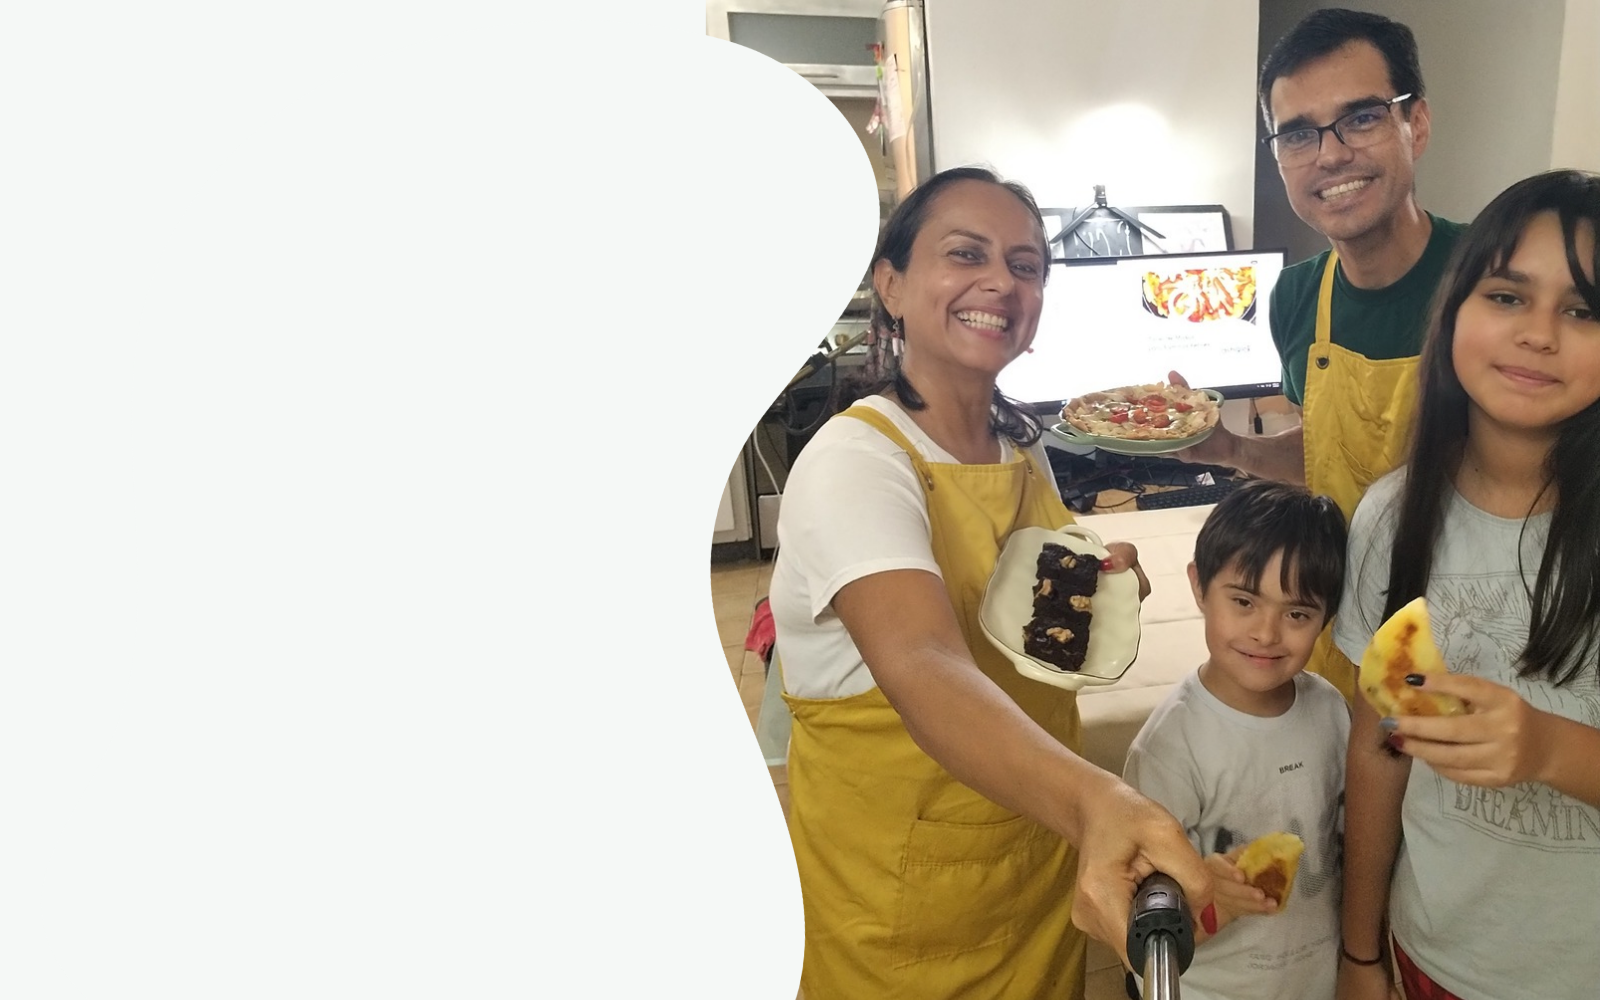
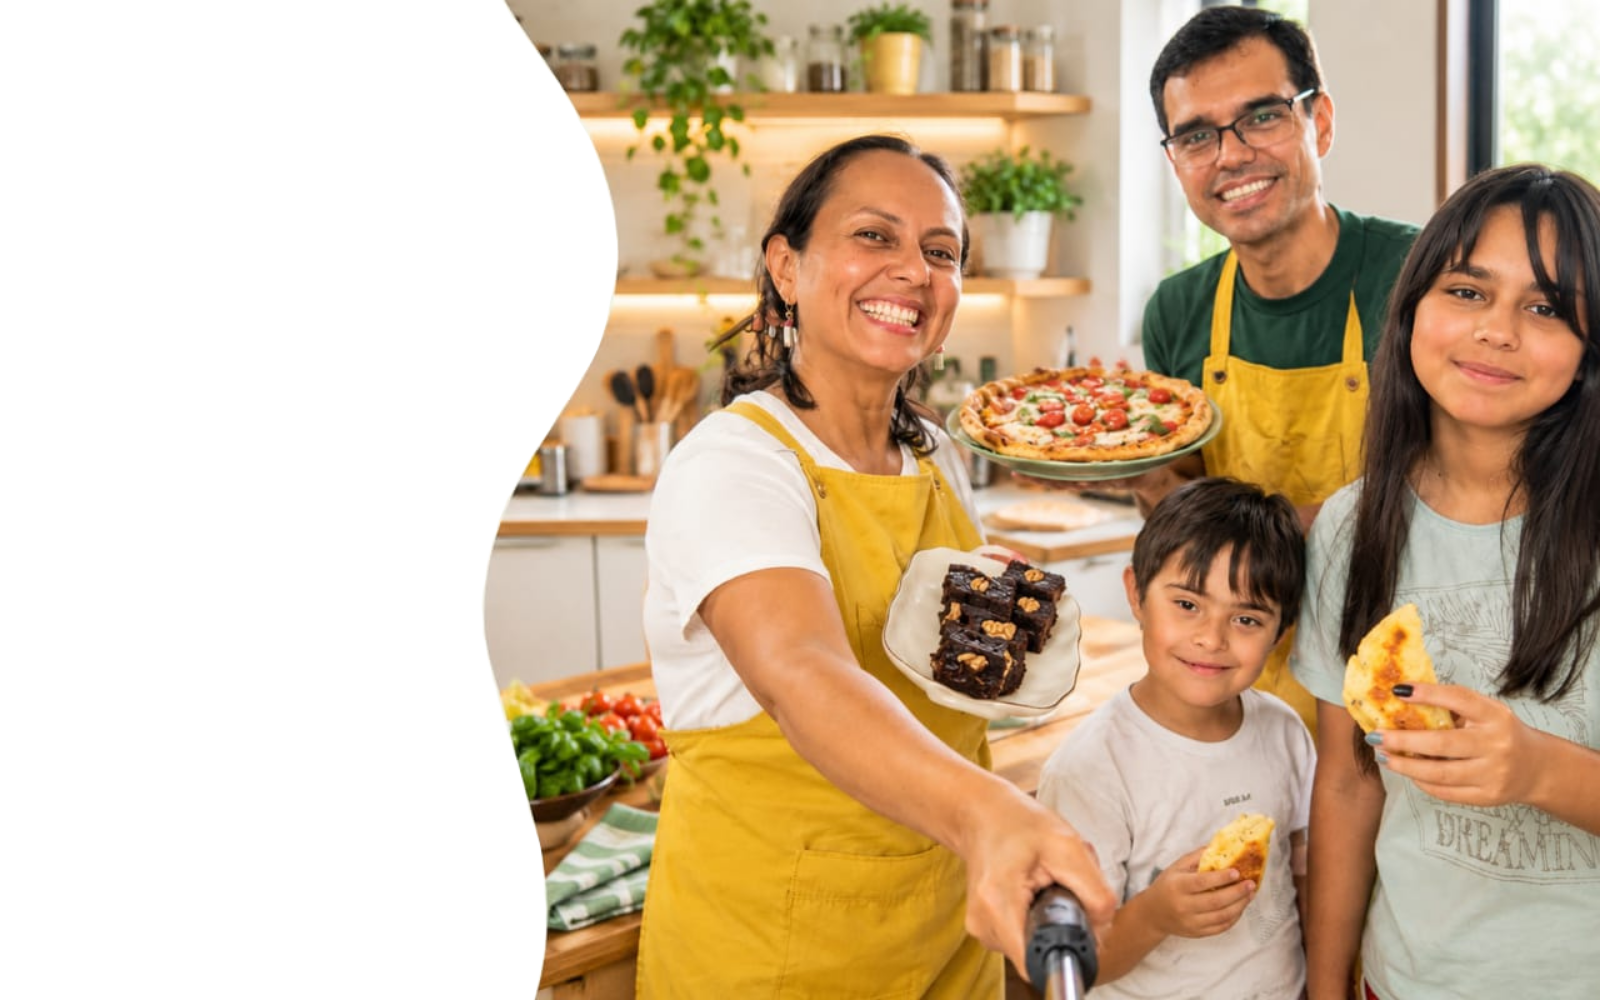
Fix Taller Masas landing page.

diff --git a/education/taller-masas/css/styles.css b/education/taller-masas/css/styles.css
@@ -188,21 +188,21 @@ a:focus-visible, .btn:focus-visible, .navbar-toggler:focus-visible {
 .hero { position: relative; background: var(--bg-page); }
 
 .hero__media { position: relative; }
-.hero__media img {
+.hero__media img { 
+  height: 80%; 
   display: block;
-  width: 100%;
-  height: 300px;
-  object-fit: cover;
+  width: 70%;
+  /* object-fit: cover; */
   object-position: center 30%;
-  max-width: 600px;
+  /* max-width: 600px; */
   object-position: right;
-  max-height: 600px;
-
+  /* max-height: 600px; */
 }
+
 .nota--hero {
   position: absolute;
-  top: 2rem;
-  right: 18rem;
+  top: 3rem;
+  right: 60%;
   text-align: center;
   transform: rotate(-20deg);
   color: var(--green-ashwel);
@@ -283,10 +283,19 @@ a:focus-visible, .btn:focus-visible, .navbar-toggler:focus-visible {
     width: 62%;
     z-index: 1;
   }
-  .hero__media img { height: 100%; }
+  .hero__media img { 
+    height: 63%; 
+    display: block;
+    width: 100%;
+    object-fit: contain;
+    object-position: center 30%;
+    /* max-width: 600px; */
+    object-position: right;
+    /* max-height: 600px; */
+  }
   .nota--hero {
-    top: 8rem;
-    right: 28rem;
+    top: 7rem;
+    right: 70%;
     background: none;
     padding: 0;
     font-size: 2rem;
@@ -300,9 +309,64 @@ a:focus-visible, .btn:focus-visible, .navbar-toggler:focus-visible {
 }
 @media (min-width: 1200px) {
   .hero__content { max-width: 600px; margin-left: calc((100vw - 1140px) / 2); padding-left: 0; }
+
+  .hero__media img { 
+    height: 100%; 
+    display: block;
+    width: 100%;
+    object-fit: contain;
+    object-position: center 30%;
+    /* max-width: 600px; */
+    object-position: right;
+    /* max-height: 600px; */
+  }
+
+  .nota--hero {
+    top: 11rem;
+    right: 66%;
+    background: none;
+    padding: 0;
+    font-size: 2.2rem;
+    transform: rotate(-11deg);
+  }
 }
 @media (min-width: 1400px) {
   .hero__content { margin-left: calc((100vw - 1320px) / 2); }
+
+  .hero__media img { 
+    height: 70%; 
+    display: block;
+    width: 80%;
+    object-fit: contain;
+    object-position: center 30%;
+    /* max-width: 600px; */
+    object-position: right;
+    /* max-height: 600px; */
+  }
+
+  .nota--hero {
+    top: 11rem;
+    right: 62%;
+    background: none;
+    padding: 0;
+    font-size: 3rem;
+    transform: rotate(-17deg);
+  }
+}
+
+@media (min-width: 1920px) {
+  .hero__content { margin-left: calc((100vw - 1320px) / 2); }
+
+  .hero__media img { 
+    height: 80%; 
+    display: block;
+    width: 60%;
+    object-fit: contain;
+    object-position: center 30%;
+    /* max-width: 600px; */
+    object-position: right;
+    /* max-height: 600px; */
+  }
 }
 
 /* =========================================================
@@ -442,7 +506,7 @@ a:focus-visible, .btn:focus-visible, .navbar-toggler:focus-visible {
 .nota--cupos {
   display: inline-block;
   background: var(--green-ashwel);
-  color: #fff;
+  color: #fff !important;
   padding: 1.1rem 2rem;
   border-radius: 40% 60% 45% 55% / 55% 45% 55% 45%;
   transform: rotate(-6deg);

diff --git a/education/taller-masas/index.html b/education/taller-masas/index.html
@@ -16,9 +16,9 @@
   <meta property="og:title" content="Masas para Familias Felices | Taller online en vivo">
   <meta property="og:description" content="Cocina en familia desde casa: pizza, empanadas o pastelitos y brownie con yuca, batata y ocumo chino. Domingo 1 de noviembre, 10:00 a. m. (hora de Venezuela).">
   <meta property="og:url" content="https://www.tudominio.com/education/taller-masas/">
-  <meta property="og:image" content="https://www.tudominio.com/education/taller-masas/img/og-taller.jpg">
-  <meta property="og:image:width" content="1200">
-  <meta property="og:image:height" content="630">
+  <meta property="og:image" content="https://www.tudominio.com/education/taller-masas/img/og-taller.jepg">
+  <meta property="og:image:width" content="720">
+  <meta property="og:image:height" content="1280">
   <meta property="og:image:alt" content="Taller Masas para Familias Felices – Ashwel">
   <meta name="twitter:card" content="summary_large_image">
   <meta name="twitter:title" content="Masas para Familias Felices | Taller online en vivo">
@@ -69,7 +69,7 @@
   <main>
 
     <!-- ============ HERO ============ -->
-    <section id="inicio" class="hero">
+    <section id="inicio" class="hero pt-0">
       <div class="hero__media">
         <div class="w-100 h-100 d-flex justify-content-end align-items-center">
           <img src="img/hero-familia.png" alt="Una mamá y sus dos hijos preparando una pizza juntos en la cocina">
@@ -215,7 +215,7 @@
     <section class="cta" id="fecha">
       <div class="row g-0 align-items-stretch">
         <div class="col-lg-3 cta__media">
-          <img src="img/cta-comidas.jpg" alt="Pizza, empanadas y brownies sobre la mesa" loading="lazy">
+          <img src="img/cta-comidas.jpeg" alt="Pizza, empanadas y brownies sobre la mesa" loading="lazy">
         </div>
         <div class="col-lg-9">
           <div class="cta__content container-fluid">
@@ -253,7 +253,7 @@
     <div class="container">
       <div class="row align-items-center g-3">
         <div class="col-md-6 text-center text-md-start">
-          <img src="img/logo-ashwel-blanco.svg" alt="Ashwel – Familias conscientes" width="150" height="56">
+          <img src="../../img/logo_blanco.png" alt="Ashwel – Familias conscientes" width="150" height="56">
         </div>
         <div class="col-md-6 text-center text-md-end">
           <p class="footer__frase">Alimentar con amor también es crear momentos felices. <i class="bi bi-heart-fill" aria-hidden="true"></i></p>
